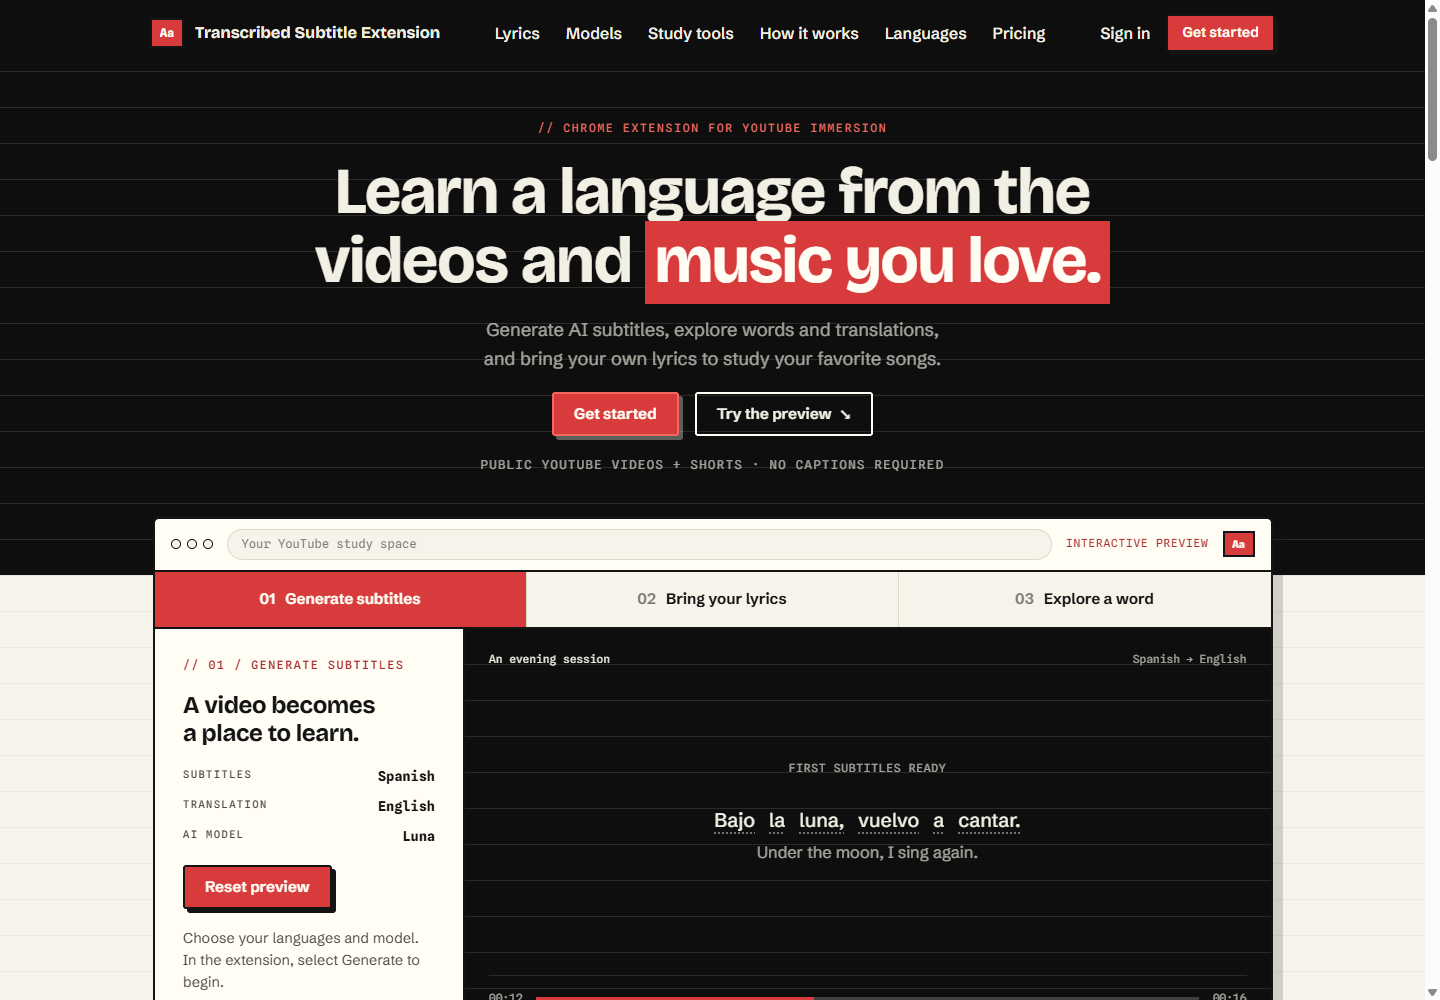
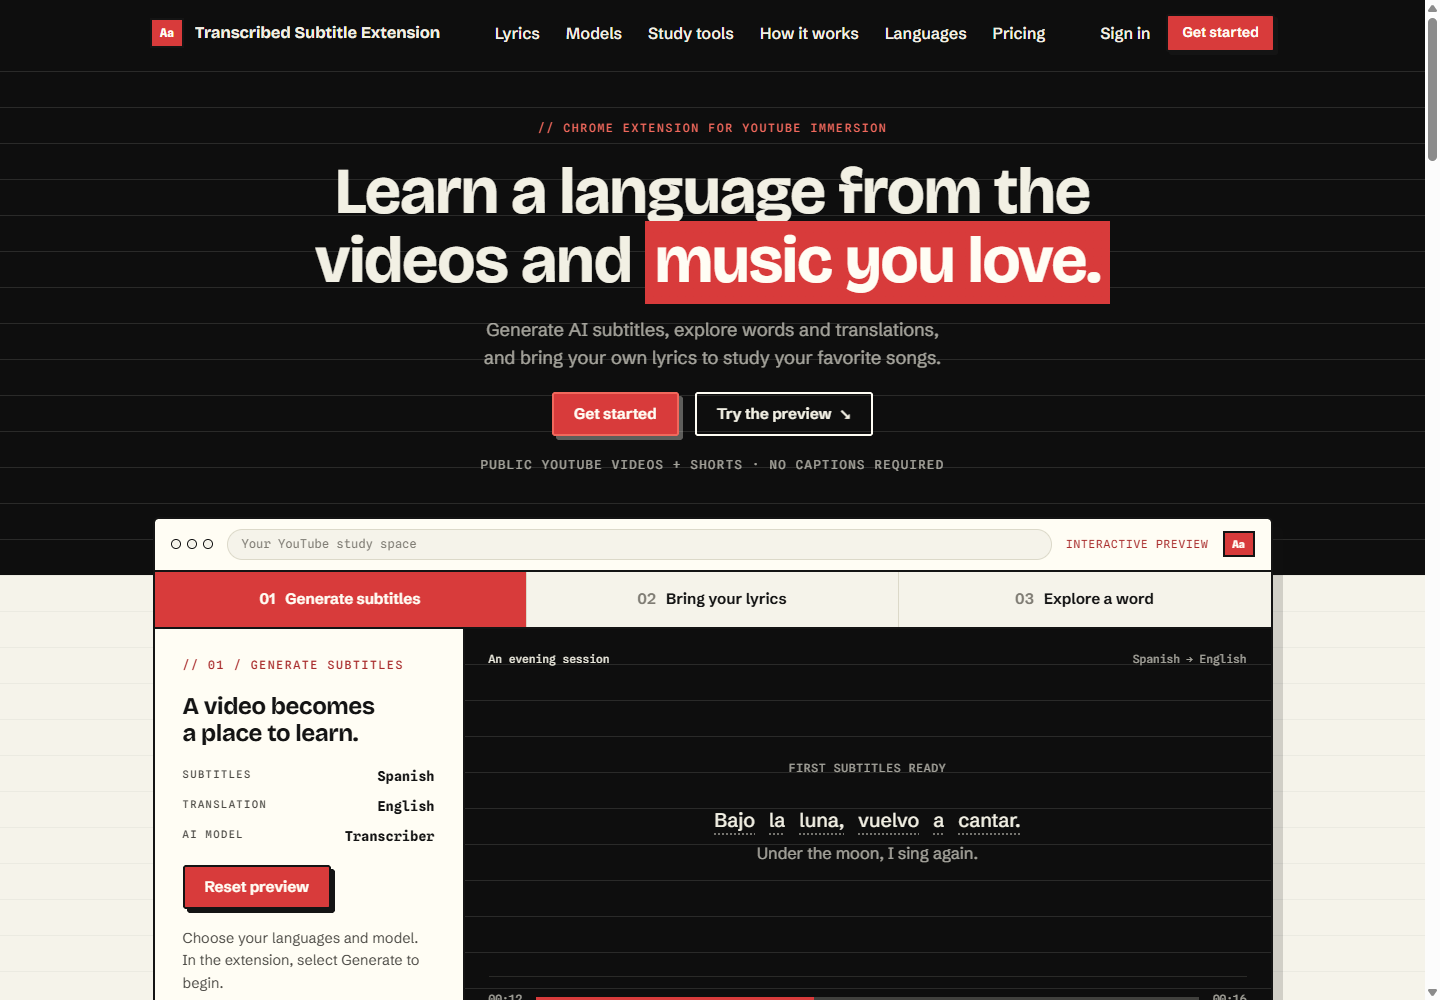
Brand website models as Transcriber and Transcriber-Spark

diff --git a/app/backend/resources/views/marketing/home.blade.php b/app/backend/resources/views/marketing/home.blade.php
@@ -44,18 +44,18 @@
         <div class="model-options" data-reveal>
             <article>
                 <p class="eyebrow">For demanding language study</p>
-                <h3>Luna<span class="model-note">The default choice</span></h3>
-                <p>Our recommended starting point for languages with non-Latin scripts. More capable language processing, with a longer wait than Cerebras.</p>
-                <span class="model-example" lang="ja">言葉 <span aria-hidden="true">·</span> <span lang="ar" dir="rtl">كلمات</span> <span aria-hidden="true">·</span> <span lang="hi">शब्द</span></span>
+                <h3>Transcriber<span class="model-note">The default choice</span></h3>
+                <p>Our most capable model for language processing. Takes a little longer, but delivers better quality for complex phrases, subtle meanings, and detailed study.</p>
+                <span class="model-example">Nuance <span aria-hidden="true">·</span> Context <span aria-hidden="true">·</span> Detail</span>
             </article>
             <article>
                 <p class="eyebrow">For a faster start</p>
-                <h3>Cerebras<span class="model-note">Built for speed</span></h3>
-                <p>A fast option for Latin-script languages, such as Spanish and French. Less capable with non-Latin text; choose Luna when those details matter.</p>
-                <span class="model-example" lang="es">palabras <span aria-hidden="true">·</span> <span lang="fr">mots</span> <span aria-hidden="true">·</span> <span lang="de">Wörter</span></span>
+                <h3>Transcriber-Spark<span class="model-note">Built for speed</span></h3>
+                <p>Blazing fast for everyday watching. Less capable than Transcriber with complex language, but a great choice when speed matters most.</p>
+                <span class="model-example">Speed <span aria-hidden="true">·</span> Flow <span aria-hidden="true">·</span> Everyday study</span>
             </article>
         </div>
-        <p class="feature-footnote">Generation time varies with the video, language, model, and queue. Model choice applies to generation; full lyrics correction uses Luna with either selection.</p>
+        <p class="feature-footnote">Generation time varies with the video, language, model, and queue. Model choice applies to generation; full lyrics correction uses Transcriber with either selection.</p>
     </section>
 
     <section class="section" id="features">
@@ -156,7 +156,7 @@
             </details>
             <details>
                 <summary><span class="faq-q">02</span>Can I use my own lyrics?</summary>
-                <p>Yes. After generating a song track, open Lyric correction and paste the complete lyrics. The app fits them to the track’s existing timing and rebuilds translations, pronunciation, and word data using Luna. This replaces the full track; it does not fetch lyrics or create new timing from the audio. Check the result before studying.</p>
+                <p>Yes. After generating a song track, open Lyric correction and paste the complete lyrics. The app fits them to the track’s existing timing and rebuilds translations, pronunciation, and word data using Transcriber. This replaces the full track; it does not fetch lyrics or create new timing from the audio. Check the result before studying.</p>
             </details>
             <details>
                 <summary><span class="faq-q">03</span>Can I fix just one word?</summary>
@@ -164,7 +164,7 @@
             </details>
             <details>
                 <summary><span class="faq-q">04</span>Which model should I choose?</summary>
-                <p>Start with Luna for languages with non-Latin scripts. Try Cerebras for faster generation with Latin-script languages such as Spanish and French. Select the model before generating; an existing generation keeps its model. Full lyrics correction always uses Luna.</p>
+                <p>Choose Transcriber for better quality with complex language and detailed study. Choose Transcriber-Spark for blazing-fast generation when speed is your priority. Select the model before generating; an existing generation keeps its model. Full lyrics correction always uses Transcriber.</p>
             </details>
             <details>
                 <summary><span class="faq-q">05</span>How long does generation take?</summary>

diff --git a/app/backend/resources/views/marketing/partials/product-demo.blade.php b/app/backend/resources/views/marketing/partials/product-demo.blade.php
@@ -18,7 +18,7 @@
                 <dl class="demo-settings">
                     <div><dt>Subtitles</dt><dd>Spanish</dd></div>
                     <div><dt>Translation</dt><dd>English</dd></div>
-                    <div><dt>AI model</dt><dd>Luna</dd></div>
+                    <div><dt>AI model</dt><dd>Transcriber</dd></div>
                 </dl>
                 <button type="button" class="button-accent" data-preview-toggle aria-controls="preview-subtitles" aria-expanded="true" data-open-label="Show example subtitles" data-close-label="Reset preview" hidden>Reset preview</button>
                 <p class="demo-help">Choose your languages and model. In the extension, select Generate to begin.</p>

diff --git a/app/backend/app/Http/Controllers/MarketingPageController.php b/app/backend/app/Http/Controllers/MarketingPageController.php
@@ -83,7 +83,7 @@ class MarketingPageController extends Controller
         $metadata = [
             'home' => [
                 'title' => 'Learn with YouTube videos and music | '.$productName,
-                'description' => 'Learn languages with AI subtitles for YouTube. Choose Luna or Cerebras, bring your own lyrics, and explore translations, pronunciation, and interactive word cards.',
+                'description' => 'Learn languages with AI subtitles for YouTube. Choose Transcriber or Transcriber-Spark, bring your own lyrics, and explore translations, pronunciation, and word cards.',
                 'route' => 'marketing.home',
             ],
             'pricing' => [

diff --git a/app/backend/resources/views/marketing/partials/pricing-plans.blade.php b/app/backend/resources/views/marketing/partials/pricing-plans.blade.php
@@ -1,5 +1,5 @@
 <div class="plan-access" data-reveal>
-    <p><strong>Included with every plan:</strong> Luna and Cerebras model choice, translations, optional romanization, interactive word cards, and lyrics correction.</p>
+    <p><strong>Included with every plan:</strong> Transcriber and Transcriber-Spark model choice, translations, optional romanization, interactive word cards, and lyrics correction.</p>
     @if (config('marketing.chrome_extension_url'))
         <p>Paid beta for desktop Chrome. <a class="strong-link" href="{{ config('marketing.chrome_extension_url') }}">Get the extension</a>, then choose a subscription to generate subtitles.</p>
     @else

diff --git a/app/backend/tests/Feature/SaasWebsiteAndSeoTest.php b/app/backend/tests/Feature/SaasWebsiteAndSeoTest.php
@@ -95,8 +95,8 @@ class SaasWebsiteAndSeoTest extends TestCase
             ->assertSeeText('Learn a language from the videos and')
             ->assertSeeText('Interactive preview')
             ->assertSeeText('Bring your own lyrics')
-            ->assertSeeText('Cerebras')
-            ->assertSeeText('Luna')
+            ->assertSeeText('Transcriber-Spark')
+            ->assertSeeText('Transcriber')
             ->assertSeeText('Reopen generated tracks from your history while they are retained.')
             ->assertDontSeeText('saved to your account for review')
             ->assertSeeText('Supported subtitle and translation languages')

diff --git a/docs/DESIGN.md b/docs/DESIGN.md
@@ -22,6 +22,7 @@
 - The marketing site is one landing page: compact night hero and overlapping interactive CSS example, lyrics correction, speed/model choice, study tools, how-it-works, a collapsed A–Z language directory, pricing, and FAQ, plus a thin `/pricing` page. Preserve the Ink & Marker palette, fonts, rules, marker highlights, and tactile buttons. Retired pages (`/extension`, `/desktop`, `/languages`, `/how-it-works`, `/faq`) 301-redirect to home anchors; keep the sitemap listing live pages only.
 - Keep the product example hand-built in CSS and explicitly labeled as example content. Its three previews demonstrate generated subtitles, full lyrics correction, and interactive word cards. Use accessible tabs and native buttons, retain readable examples without JavaScript, and avoid fake timing benchmarks or screenshots of stale UI. Lyrics correction fits full pasted lyrics to existing timing; never imply automatic lyrics retrieval or partial merging.
 - Explain beta installation before purchase; use the configured Chrome link when available and otherwise link to install support. Describe plan benefits in video minutes and simultaneous videos, keeping infrastructure terms out of plan cards.
+- Website model names are **Transcriber** (the Luna/OpenAI-backed choice) and **Transcriber-Spark** (the Cerebras-backed choice). Explain them as quality and language understanding versus speed, without splitting the marketing comparison by writing system. Use these names consistently in the homepage, preview, pricing, FAQ, and metadata. This is website branding; provider identifiers and extension labels are unchanged.
 - Use crimson as the only accent: marker highlights, primary CTA, active states. Green only for success/positive pills, red tones only for failures.
 - Keep buttons flashcard-hard: 2px ink borders, offset block shadow, translate-on-hover/press interaction (`ui.css` `.button`).
 - Keep the purchase path intact: plan cards link `register?plan=code`, registration stashes the plan in the session, and the dashboard shows a continue-to-checkout banner after email verification until checkout starts.

diff --git a/docs/exec-plans/completed/2026-09-14-refresh-website-for-lyrics-and-model-choice.md b/docs/exec-plans/completed/2026-09-14-refresh-website-for-lyrics-and-model-choice.md
@@ -77,3 +77,10 @@ Run the existing website feature test, Pint, and `scripts/agent/check.ps1`. Insp
 ## Completion Notes
 
 Implemented and locally verified. The original Ink & Marker design remains the visual system. The demonstration uses clearly labeled original example content and does not run real generation. Public speed messaging describes progressive availability without a numeric guarantee. Existing prices and purchase behavior are preserved. The branch is local; no deployment or remote push was requested.
+
+## Model Branding Follow-up (2026-09-14)
+
+- User renamed the website choices to **Transcriber** and **Transcriber-Spark** and requested a general quality-versus-speed comparison.
+- Updated homepage model descriptions, examples, lyric-correction references, FAQ, pricing, preview, and SEO description. Transcriber emphasizes complex phrases, subtle meanings, and detailed study; Transcriber-Spark emphasizes fast everyday use with lower language-processing capability.
+- Replaced script-specific language examples with benefit labels. Preserved the existing theme and layout. Provider routing and extension labels are outside this website-copy change.
+- Validation: website feature tests passed (19 tests, 225 assertions); Pint passed; documentation harness passed. Browser inspection found no old model names on the rendered homepage or metadata and no model-section overflow at 320px. Refreshed desktop evidence and added `docs/design-assets/marketing-feature-refresh/qa/models-desktop.png`.
